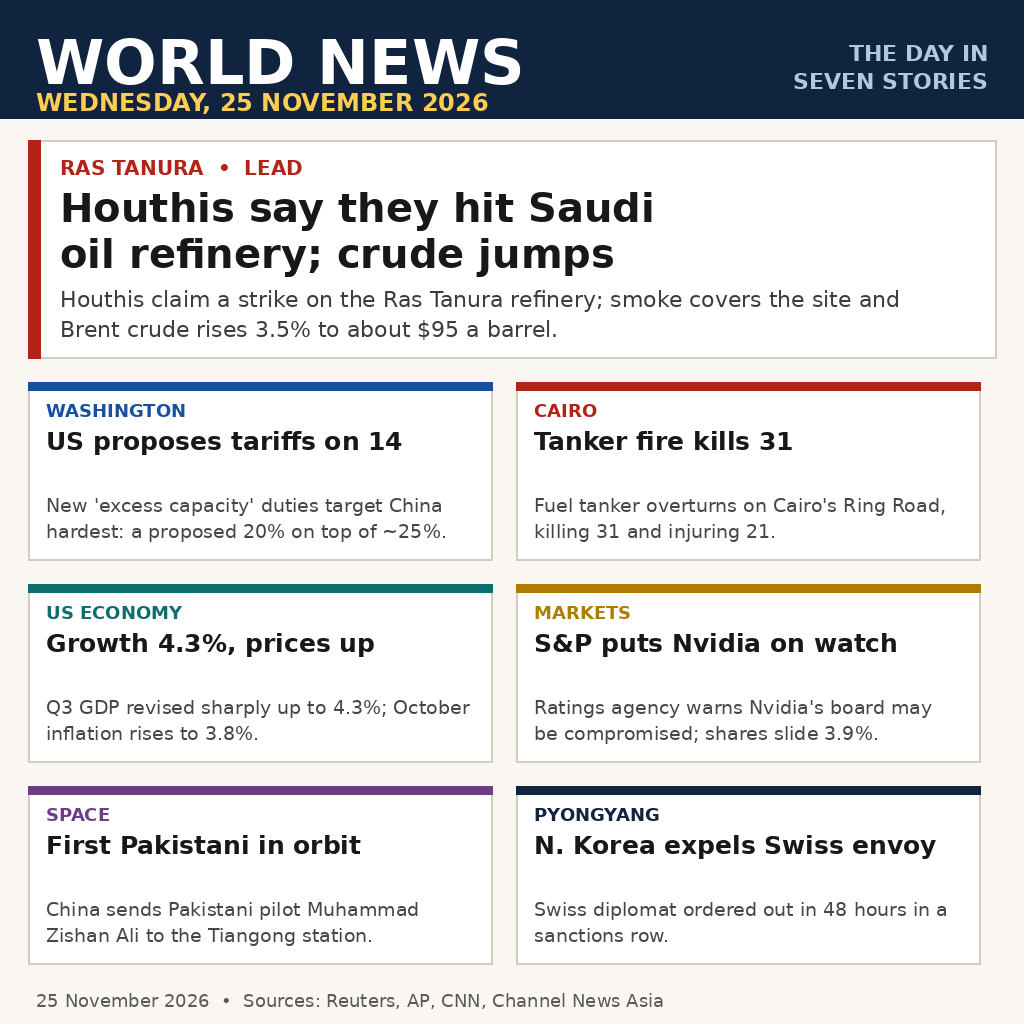
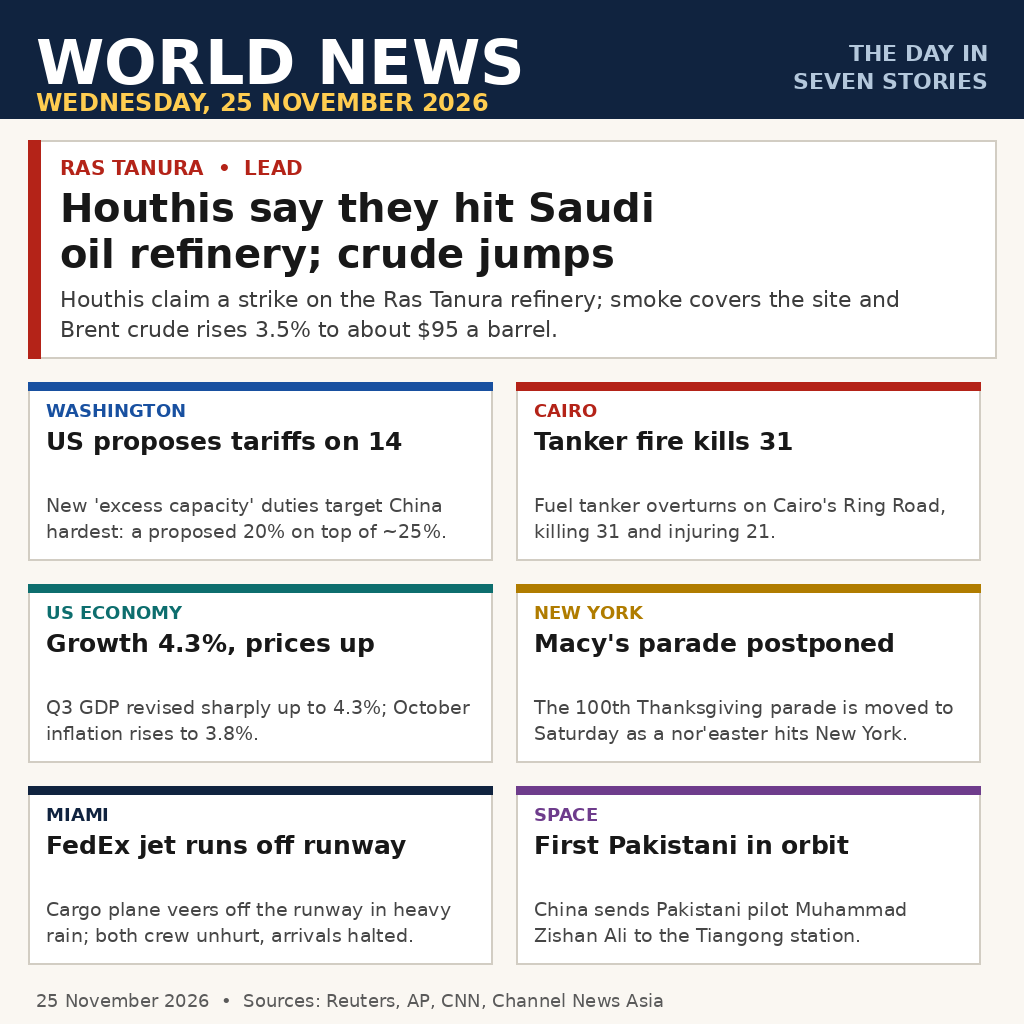
News image 25 Nov v2: add Macy's parade postponement + FedEx Miami runway incident (late breakers)

diff --git a/README.md b/README.md
@@ -9,8 +9,8 @@ Referral: [pfdcd9rw](https://make.fun/r/pfdcd9rw)
 One-image entry for the make.fun bounty **"Sum up 25 November's world news in one image"**:
 a newspaper front page for Wednesday, 25 November 2026, drawn with PIL — seven stories
 (Ras Tanura refinery strike lead, US tariffs, Cairo tanker fire, US growth 4.3%,
-Nvidia downgrade watch, first Pakistani astronaut, N. Korea expels Swiss envoy)
-with the date named on the page.
+Macy's Thanksgiving parade postponed, FedEx jet off the runway in Miami,
+first Pakistani astronaut) with the date named on the page.
 
 ## The image
 
